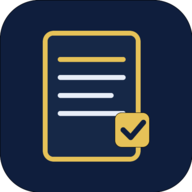
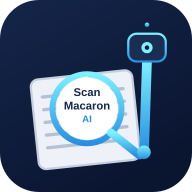
تحديث أيقونات Scan Macaron AI — عدسة مكبرة + روبوت + نص «Scan Macaron AI» داخل العدسة بالأزرق (رمز AI) — SW v17

diff --git a/scan/sw.js b/scan/sw.js
@@ -1,5 +1,5 @@
 /* ===== Scan Macaron AI — Service Worker (offline + installable) ===== */
-const CACHE = 'scan-macaron-v15';
+const CACHE = 'scan-macaron-v17';
 const CORE = ['./', './index.html', './styles.css', './app.js', './manifest.json', './icon.svg', './icon-192.png', './icon-512.png', './icon-512-maskable.png'];
 
 self.addEventListener('install', (e) => {
